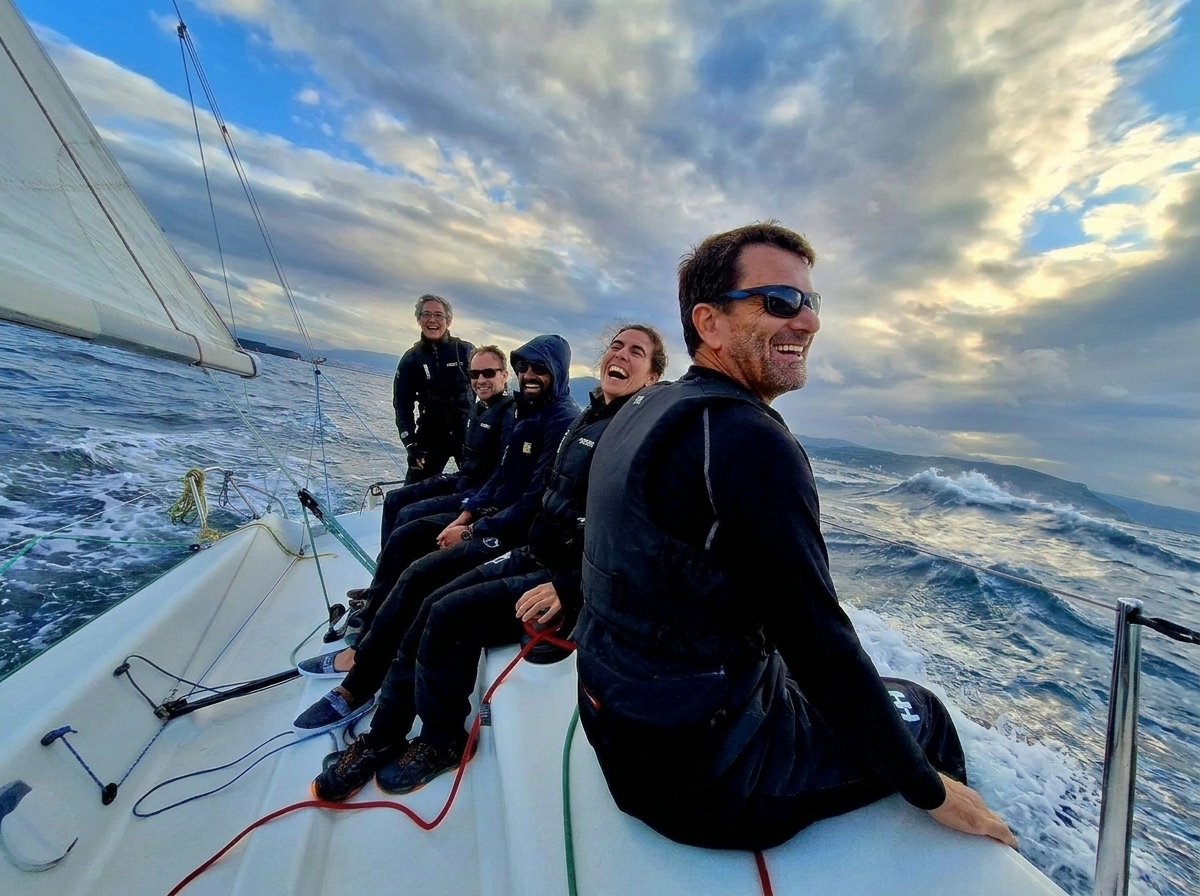
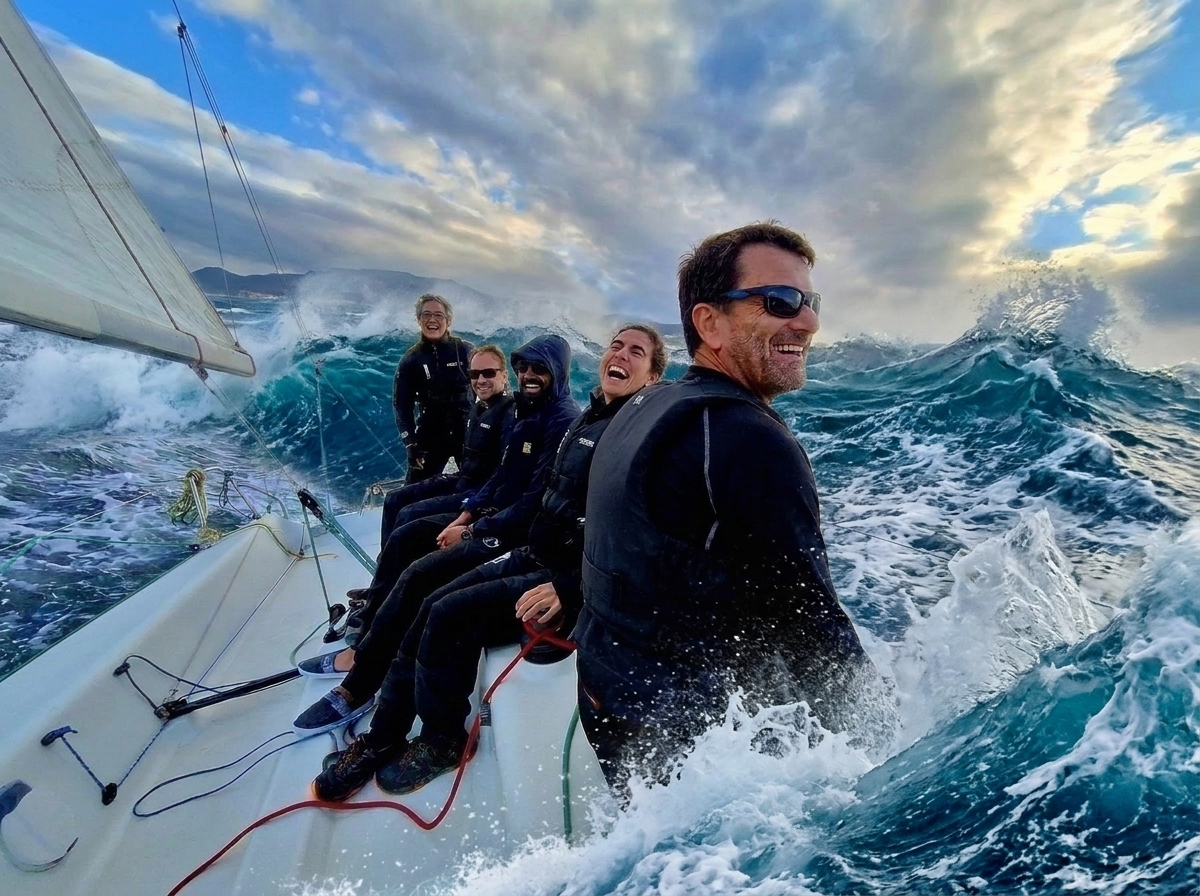
feat(courses): update image for entrenamientos continuos jovenes and optimize gennaker

diff --git a/apps/getxobelaeskola-web/src/app/[locale]/courses/[slug]/page.tsx b/apps/getxobelaeskola-web/src/app/[locale]/courses/[slug]/page.tsx
@@ -40,7 +40,7 @@ export async function generateMetadata({
         'txikigune-sabados': { nombre_es: 'Txikigune (Sábados de navegación)', nombre_eu: 'Txikigune (Larunbateko nabigazioa)', imagen_url: '/images/courses/Txikigune.webp' },
         'udalekuak-campamentos': { nombre_es: 'Udalekuak (Campamentos)', nombre_eu: 'Udalekuak (Campamentos)', imagen_url: '/images/courses/udalekuak-campamentos.webp' },
         'entrenamientos-infantiles-continuos': { nombre_es: 'Entrenamientos infantiles continuos', nombre_eu: 'Haurrentzako entrenamendu jarraituak', imagen_url: '/images/courses/CursodeVelaLigera.webp' },
-        'entrenamientos-continuos-jovenes': { nombre_es: 'Entrenamientos continuos para jóvenes', nombre_eu: 'Gazteentzako entrenamendu jarraituak', imagen_url: '/images/course-detail-header-sailing.webp' },
+        'entrenamientos-continuos-jovenes': { nombre_es: 'Entrenamientos continuos para jóvenes', nombre_eu: 'Gazteentzako entrenamendu jarraituak', imagen_url: '/images/courses/entrenamientos-continuos-jovenes.webp' },
         'bautismos': { nombre_es: 'Bautismos', nombre_eu: 'Bataioak', imagen_url: '/images/ai/section2-calm-bay.webp' },
         'familia': { nombre_es: 'Familia', nombre_eu: 'Familia', imagen_url: '/images/course-raquero-students.webp' },
         'cursos-personalizados': { nombre_es: 'Cursos personalizados', nombre_eu: 'Neurrira egindako ikastaroak', imagen_url: '/images/ai/section2-action-sea.webp' },
@@ -348,7 +348,7 @@ export default async function CourseDetailPage({
             precio: 95,
             duracion_h: 12,
             nivel: 'avanzado',
-            imagen_url: '/images/course-detail-header-sailing.webp',
+            imagen_url: '/images/courses/entrenamientos-continuos-jovenes.webp',
             detalles: {
                 es: ['Jóvenes de hasta 21 años', 'Perfeccionamiento técnico en flota', 'Autonomía y toma de decisiones', 'Navegación deportiva y regatas formativas'],
                 eu: ['21 urtera arteko gazteak', 'Hobekuntza teknikoa flotan', 'Autonomia eta erabaki-hartzea', 'Kirol-nabigazioa eta heziketa-estropadak']

diff --git a/apps/getxobelaeskola-web/src/app/[locale]/courses/page.tsx b/apps/getxobelaeskola-web/src/app/[locale]/courses/page.tsx
@@ -236,7 +236,7 @@ export default async function CoursesPage({
             nivel: 'avanzado',
             categoria_id: 'cat-vela-ligera',
             categoria: { id: 'cat-vela-ligera', slug: 'vela-ligera', nombre_es: 'Vela ligera', nombre_eu: 'Bela arina' },
-            imagen_url: '/images/course-detail-header-sailing.webp'
+            imagen_url: '/images/courses/entrenamientos-continuos-jovenes.webp'
         },
         {
             id: 'c-bautismos',
